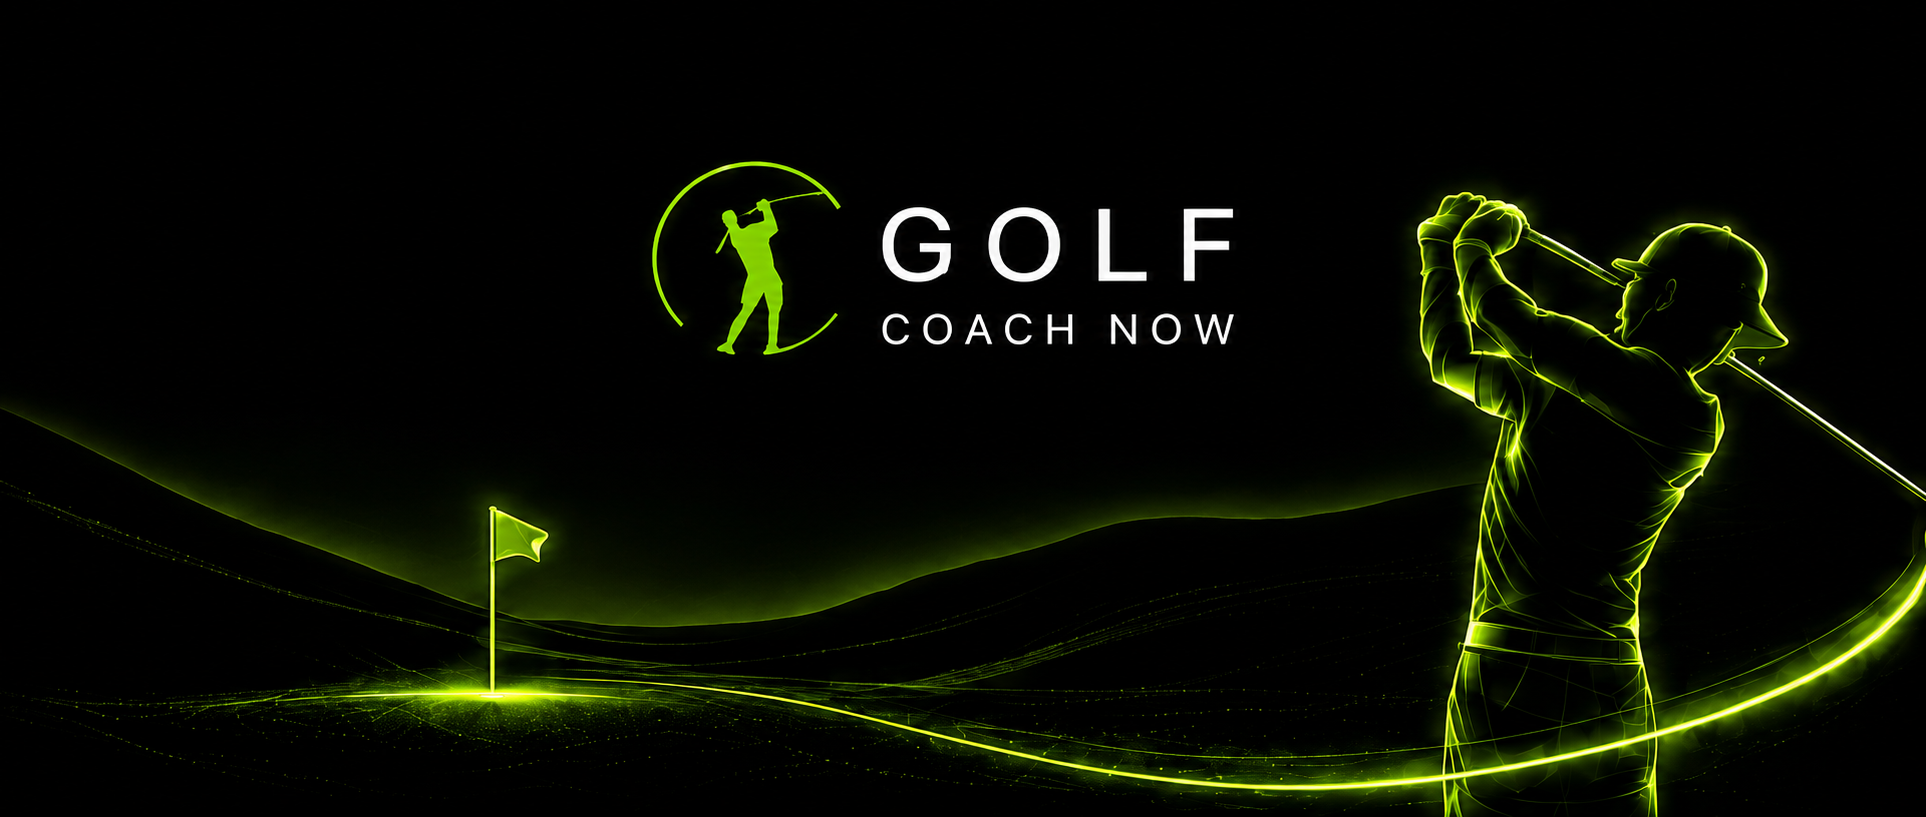
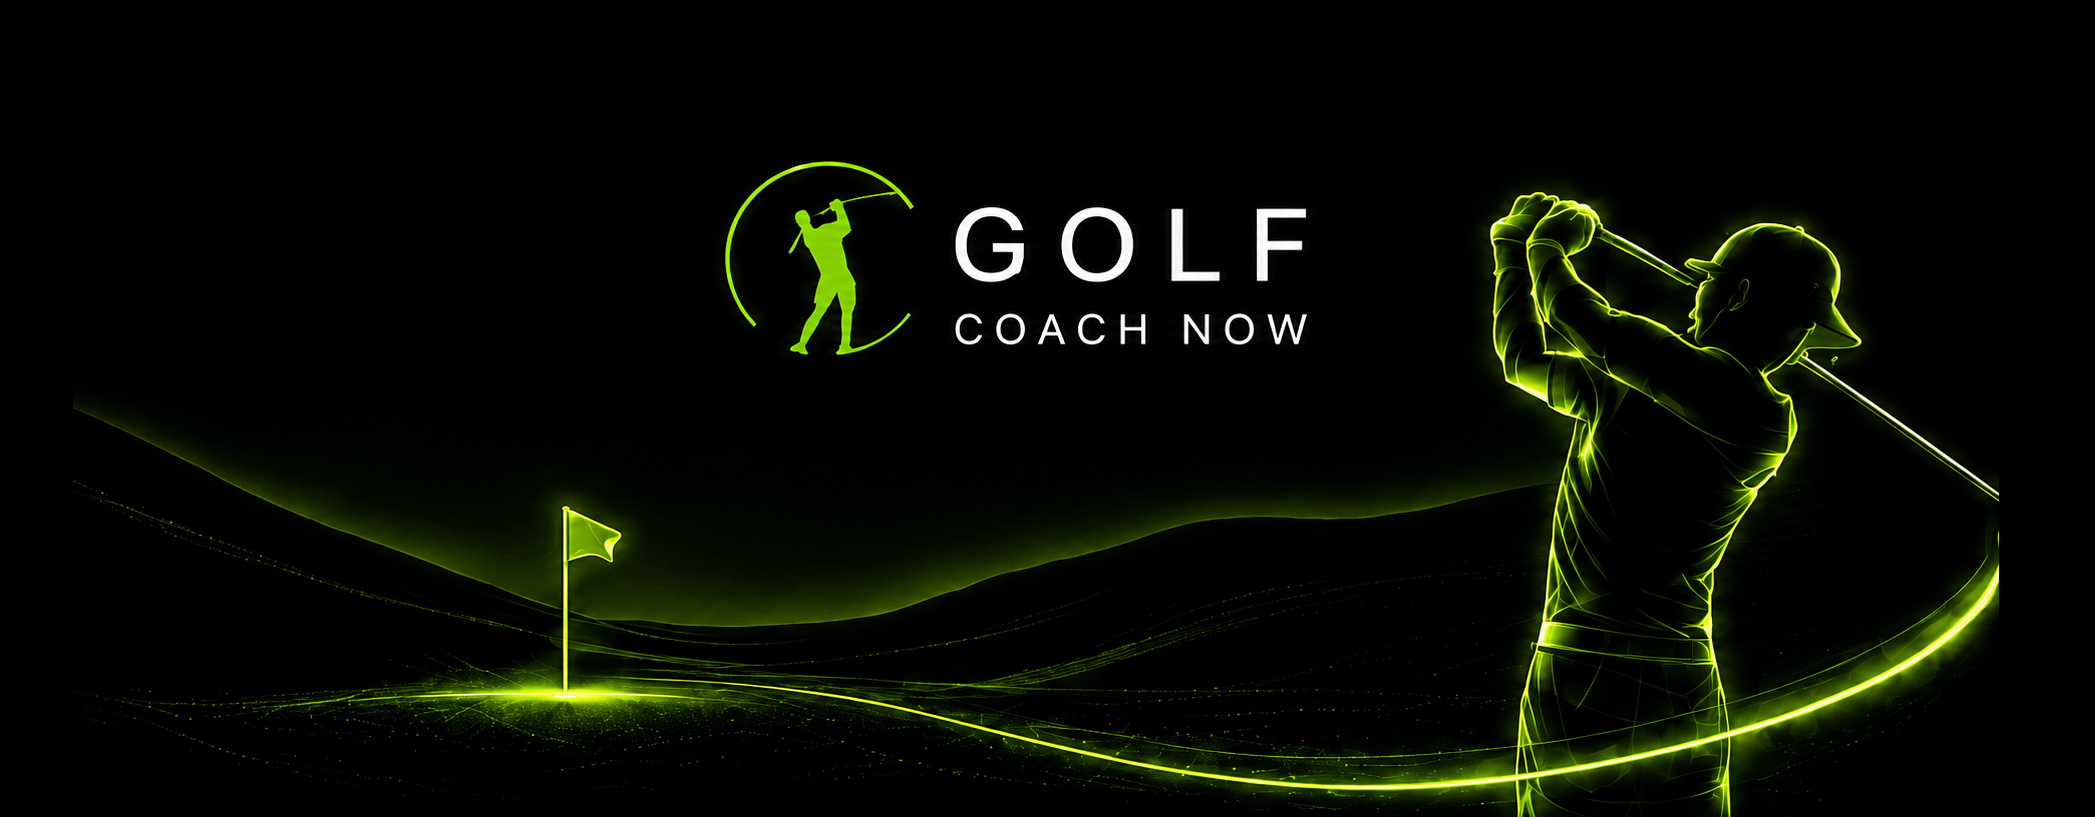
Give the club air, match the plane, and set one spacing rhythm
Three corrections, and the first two had causes worth recording because
the obvious fix would have been the wrong one in both cases.

The club head. banner.png draws the arc flush to its own right edge -
measured, zero dead pixels there, against 23 on the left. No fit mode can
invent a margin that is not in the file, and padding the element only
makes the hero narrower than the cards below it, which misaligns the
screen to fix one edge. So the margin went into the artwork: the canvas
is widened, the picture centred in it, and the element stays exactly as
wide as the cards. 12px each side on a phone, same as everything else.
The left pad is smaller than the right to cancel the 23px the file
already carried, or the picture would sit visibly off centre.

The share icon. The shape was close; the colour was not. The Connect icon
the client supplied has a saturated yellow core, rgb(251,253,44), while
mine was white-cored green. Those two sit side by side, so they have to
be the same kind of light. Sampled his and matched it rather than
guessing at a hue.

The spacing. The button used margin-top:auto, which only pushes it down
when a tile has spare height - and the shorter of the two had none, so
the copy sat against the button. It now has a real 14px above it, and the
whole screen runs on one rhythm instead of values that each arrived
separately: 10 above the title, 8 above the subtext, 14 above the button,
[…]

diff --git a/webapp/app.html b/webapp/app.html
@@ -33,12 +33,13 @@ body{background:var(--bg)}
 .scrollable{overflow-y:auto;-webkit-overflow-scrolling:touch;flex:1}
 
 /* ── Home ── */
-.banner{width:100%;aspect-ratio:1926 / 817;object-fit:cover;display:block}
+.banner{display:block;width:calc(100% - 24px);margin:0 auto;
+aspect-ratio:2095 / 817;object-fit:contain;border-radius:14px}
 .greeting-wrap{margin-top:10px;padding:0 12px;position:relative;z-index:1}
 .greeting{border-radius:12px;border:1px solid var(--green-border);background:var(--card);
 overflow:hidden;position:relative;box-shadow:0 4px 12px var(--green-glow)}
 .greeting .bg{position:absolute;inset:0;width:100%;height:100%;object-fit:cover;opacity:.6;pointer-events:none}
-.greeting .inner{position:relative;padding:18px 16px}
+.greeting .inner{position:relative;padding:20px 18px}
 .greeting h2{font-size:26px;line-height:32px;font-weight:800;color:var(--white)}
 /* The name takes its own line, as in the approved design. */
 .greeting h2 span{color:var(--green);display:block}
@@ -46,16 +47,16 @@ overflow:hidden;position:relative;box-shadow:0 4px 12px var(--green-glow)}
 background:var(--green);box-shadow:0 0 10px var(--green-glow)}
 .greeting p{font-size:14px;line-height:19px;color:#b3b3b3}
 
-.skills-row{display:flex;gap:6px;padding:0 12px;margin-top:8px;position:relative;z-index:1}
+.skills-row{display:flex;gap:8px;padding:0 12px;margin-top:12px;position:relative;z-index:1}
 .skill-card{flex:1;border-radius:14px;border:1px solid var(--green-border);background:var(--card);
-padding:10px 6px;display:flex;flex-direction:column;align-items:center;cursor:pointer;
+padding:14px 10px;display:flex;flex-direction:column;align-items:center;cursor:pointer;
 box-shadow:0 4px 12px var(--green-glow);transition:transform .15s}
 .skill-card:active{transform:scale(.96)}
 .skill-card img{width:52px;height:52px;border-radius:12px;object-fit:cover}
-.skill-card .name{font-size:13px;font-weight:800;margin-top:6px;text-align:center}
+.skill-card .name{font-size:13px;font-weight:800;margin-top:10px;text-align:center}
 .skill-card .desc{font-size:11px;color:var(--muted);text-align:center;
-line-height:14px;margin-top:4px}
-.skill-card .cta-btn{width:100%;margin-top:auto;padding:6px 2px;border-radius:7px;
+line-height:15px;margin-top:8px;margin-bottom:14px}
+.skill-card .cta-btn{width:100%;margin-top:auto;padding:8px 2px;border-radius:8px;
 background:linear-gradient(to bottom,#8fc238,#6b9e24);border:1px solid #618c1f;
 font-size:9px;font-weight:800;color:#000;text-align:center;cursor:pointer;white-space:nowrap}
 .skill-card .cta-btn.sm{font-size:7px}
@@ -72,8 +73,8 @@ box-shadow:0 4px 16px var(--green-glow);transition:transform .15s}
 .talk-card img.pulse{width:28px;height:28px;object-fit:contain}
 .talk-card img.arrow{width:16px;height:16px;object-fit:contain}
 
-.action-row{display:flex;gap:6px;padding:8px 12px 20px}
-.action-card{flex:1;height:72px;border-radius:14px;border:1px solid var(--green-border);
+.action-row{display:flex;gap:8px;padding:12px 12px 20px}
+.action-card{flex:1;height:76px;border-radius:14px;border:1px solid var(--green-border);
 background:var(--card);display:flex;align-items:center;padding:10px;gap:8px;cursor:pointer;
 box-shadow:0 4px 12px var(--green-glow);transition:transform .15s}
 .action-card:active{transform:scale(.96)}
@@ -253,13 +254,13 @@ border-top-color:#000;border-radius:50%;animation:spin .6s linear infinite}
     <div class="skill-card" onclick="startCorrect()">
       <img src="/static/img/ic_swing.png" alt="Swing Correct">
       <div class="name">SWING CORRECT</div>
-      <div class="desc">Analyze your swing. Get instant feedback.</div>
+      <div class="desc">Analyze your swing.<br>Get instant feedback.</div>
       <div class="cta-btn">START SWING CORRECT &rarr;</div>
     </div>
     <div class="skill-card" onclick="startLearn()">
       <img src="/static/img/ic_swing.png" alt="Swing Learn">
       <div class="name">SWING LEARN</div>
-      <div class="desc">Learn your swing. Get instant feedback.</div>
+      <div class="desc">Learn your swing.<br>Get instant feedback.</div>
       <div class="cta-btn">START SWING LEARN &rarr;</div>
     </div>
   </div>

diff --git a/webapp/index.html b/webapp/index.html
@@ -34,12 +34,12 @@ body{background:var(--bg)}
 
 /* ── Home ── */
 .banner{display:block;width:calc(100% - 24px);margin:0 auto;
-aspect-ratio:1926 / 817;object-fit:cover;border-radius:14px}
+aspect-ratio:2095 / 817;object-fit:contain;border-radius:14px}
 .greeting-wrap{margin-top:10px;padding:0 12px;position:relative;z-index:1}
 .greeting{border-radius:12px;border:1px solid var(--green-border);background:var(--card);
 overflow:hidden;position:relative;box-shadow:0 4px 12px var(--green-glow)}
 .greeting .bg{position:absolute;inset:0;width:100%;height:100%;object-fit:cover;opacity:.6;pointer-events:none}
-.greeting .inner{position:relative;padding:18px 16px}
+.greeting .inner{position:relative;padding:20px 18px}
 .greeting h2{font-size:26px;line-height:32px;font-weight:800;color:var(--white)}
 /* The name takes its own line, as in the approved design. */
 .greeting h2 span{color:var(--green);display:block}
@@ -47,16 +47,16 @@ overflow:hidden;position:relative;box-shadow:0 4px 12px var(--green-glow)}
 background:var(--green);box-shadow:0 0 10px var(--green-glow)}
 .greeting p{font-size:14px;line-height:19px;color:#b3b3b3}
 
-.skills-row{display:flex;gap:6px;padding:0 12px;margin-top:8px;position:relative;z-index:1}
+.skills-row{display:flex;gap:8px;padding:0 12px;margin-top:12px;position:relative;z-index:1}
 .skill-card{flex:1;border-radius:14px;border:1px solid var(--green-border);background:var(--card);
-padding:10px 6px;display:flex;flex-direction:column;align-items:center;cursor:pointer;
+padding:14px 10px;display:flex;flex-direction:column;align-items:center;cursor:pointer;
 box-shadow:0 4px 12px var(--green-glow);transition:transform .15s}
 .skill-card:active{transform:scale(.96)}
 .skill-card img{width:52px;height:52px;border-radius:12px;object-fit:cover}
-.skill-card .name{font-size:13px;font-weight:800;margin-top:6px;text-align:center}
+.skill-card .name{font-size:13px;font-weight:800;margin-top:10px;text-align:center}
 .skill-card .desc{font-size:11px;color:var(--muted);text-align:center;
-line-height:14px;margin-top:4px}
-.skill-card .cta-btn{width:100%;margin-top:auto;padding:6px 2px;border-radius:7px;
+line-height:15px;margin-top:8px;margin-bottom:14px}
+.skill-card .cta-btn{width:100%;margin-top:auto;padding:8px 2px;border-radius:8px;
 background:linear-gradient(to bottom,#8fc238,#6b9e24);border:1px solid #618c1f;
 font-size:9px;font-weight:800;color:#000;text-align:center;cursor:pointer;white-space:nowrap}
 .skill-card .cta-btn.sm{font-size:7px}
@@ -73,8 +73,8 @@ box-shadow:0 4px 16px var(--green-glow);transition:transform .15s}
 .talk-card img.pulse{width:28px;height:28px;object-fit:contain}
 .talk-card img.arrow{width:16px;height:16px;object-fit:contain}
 
-.action-row{display:flex;gap:6px;padding:8px 12px 20px}
-.action-card{flex:1;height:72px;border-radius:14px;border:1px solid var(--green-border);
+.action-row{display:flex;gap:8px;padding:12px 12px 20px}
+.action-card{flex:1;height:76px;border-radius:14px;border:1px solid var(--green-border);
 background:var(--card);display:flex;align-items:center;padding:10px;gap:8px;cursor:pointer;
 box-shadow:0 4px 12px var(--green-glow);transition:transform .15s}
 .action-card:active{transform:scale(.96)}

diff --git a/android/app/src/main/java/com/golfcoachnow/app/ui/screens/HomeScreen.kt b/android/app/src/main/java/com/golfcoachnow/app/ui/screens/HomeScreen.kt
@@ -86,7 +86,7 @@ fun HomeScreen(
                 .padding(horizontal = 12.dp)
                 // The image's own ratio, so the box is never a different shape
                 // from the picture and the golfer keeps his club.
-                .aspectRatio(1926f / 817f)
+                .aspectRatio(2095f / 817f)
                 .clip(RoundedCornerShape(14.dp)),
             contentScale = ContentScale.Fit,
         )
@@ -216,7 +216,7 @@ fun HomeScreen(
         // two cards carry equal weight so they read as a matched pair.
         Row(
             modifier = Modifier
-                .padding(top = 8.dp)
+                .padding(top = 12.dp)
                 .padding(horizontal = 16.dp)
                 .fillMaxWidth(),
             horizontalArrangement = Arrangement.spacedBy(8.dp),
@@ -266,7 +266,7 @@ private fun SkillCard(
             .border(1.dp, GolfGreenBorder, RoundedCornerShape(14.dp))
             .background(DarkCard)
             .clickable(onClick = onClick)
-            .padding(vertical = 10.dp, horizontal = 6.dp),
+            .padding(vertical = 14.dp, horizontal = 10.dp),
         horizontalAlignment = Alignment.CenterHorizontally,
     ) {
         Image(
@@ -277,7 +277,7 @@ private fun SkillCard(
                 .clip(RoundedCornerShape(12.dp)),
             contentScale = ContentScale.Crop,
         )
-        Spacer(Modifier.height(6.dp))
+        Spacer(Modifier.height(10.dp))
         Text(
             text = title,
             fontSize = 13.sp,
@@ -285,7 +285,7 @@ private fun SkillCard(
             color = Color.White,
             textAlign = TextAlign.Center,
         )
-        Spacer(Modifier.height(2.dp))
+        Spacer(Modifier.height(8.dp))
         Text(
             text = description,
             fontSize = 11.sp,
@@ -294,7 +294,7 @@ private fun SkillCard(
             maxLines = 3,
             lineHeight = 15.sp,
         )
-        Spacer(Modifier.height(6.dp))
+        Spacer(Modifier.height(14.dp))
         Box(
             modifier = Modifier
                 .fillMaxWidth()
@@ -309,7 +309,7 @@ private fun SkillCard(
                         ),
                     ),
                 )
-                .padding(vertical = 6.dp),
+                .padding(vertical = 8.dp),
             contentAlignment = Alignment.Center,
         ) {
             Text(

diff --git a/iosapp/GolfCoachNow/ViewControllers/HomeViewController.swift b/iosapp/GolfCoachNow/ViewControllers/HomeViewController.swift
@@ -166,7 +166,7 @@ final class HomeViewController: UIViewController, MFMailComposeViewControllerDel
             // to a constant, so no screen size crops the golfer out of frame.
             bannerImageView.heightAnchor.constraint(
                 equalTo: bannerImageView.widthAnchor,
-                multiplier: 817.0 / 1926.0
+                multiplier: 817.0 / 2095.0
             ),
 
             greetingCard.topAnchor.constraint(equalTo: bannerImageView.bottomAnchor, constant: Theme.greetingOverlap),
@@ -321,11 +321,11 @@ final class HomeViewController: UIViewController, MFMailComposeViewControllerDel
             titleLabel.leadingAnchor.constraint(equalTo: card.leadingAnchor, constant: 6),
             titleLabel.trailingAnchor.constraint(equalTo: card.trailingAnchor, constant: -6),
 
-            descLabel.topAnchor.constraint(equalTo: titleLabel.bottomAnchor, constant: 4),
+            descLabel.topAnchor.constraint(equalTo: titleLabel.bottomAnchor, constant: 8),
             descLabel.leadingAnchor.constraint(equalTo: card.leadingAnchor, constant: 6),
             descLabel.trailingAnchor.constraint(equalTo: card.trailingAnchor, constant: -6),
 
-            ctaContainer.topAnchor.constraint(equalTo: descLabel.bottomAnchor, constant: 10),
+            ctaContainer.topAnchor.constraint(equalTo: descLabel.bottomAnchor, constant: 14),
             ctaContainer.leadingAnchor.constraint(equalTo: card.leadingAnchor, constant: 8),
             ctaContainer.trailingAnchor.constraint(equalTo: card.trailingAnchor, constant: -8),
             ctaContainer.heightAnchor.constraint(equalToConstant: 30),
